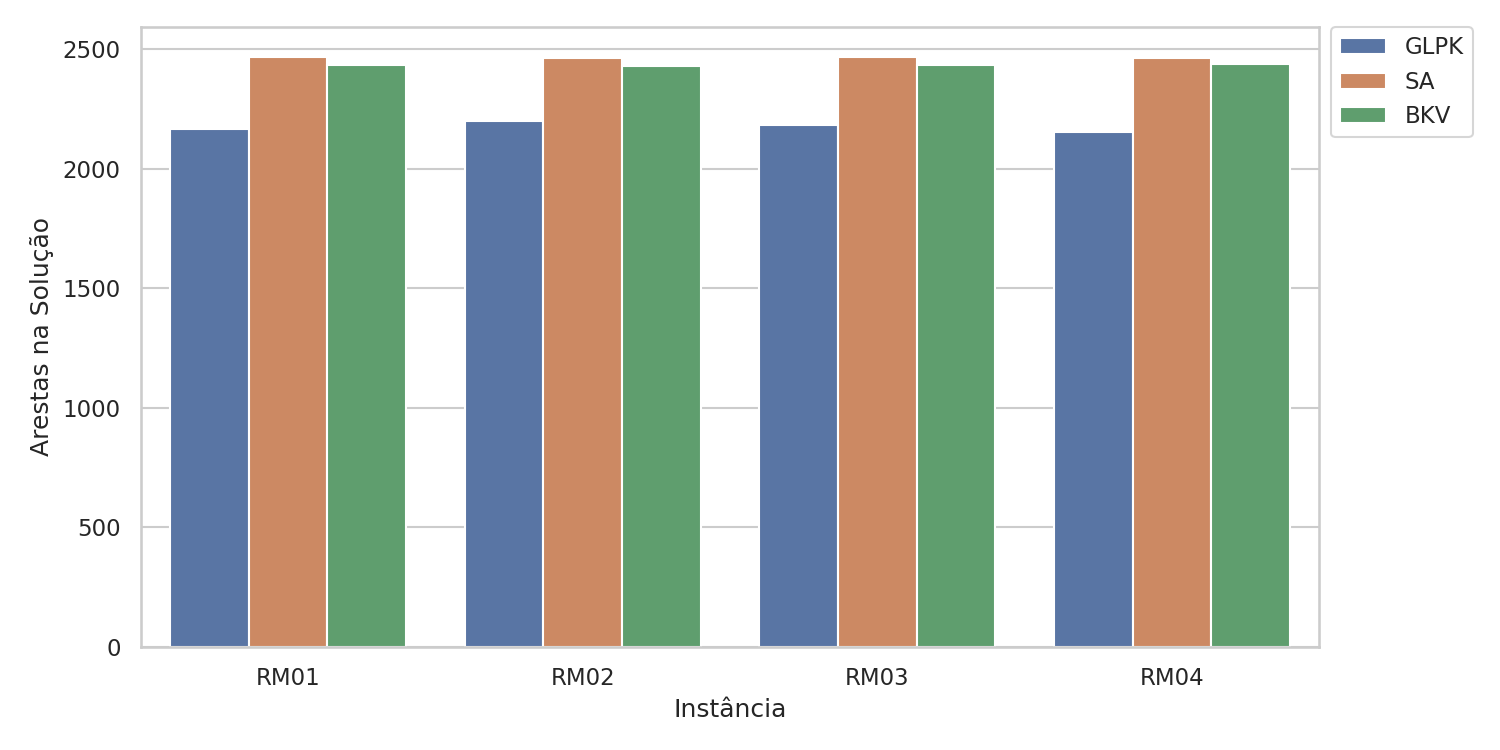
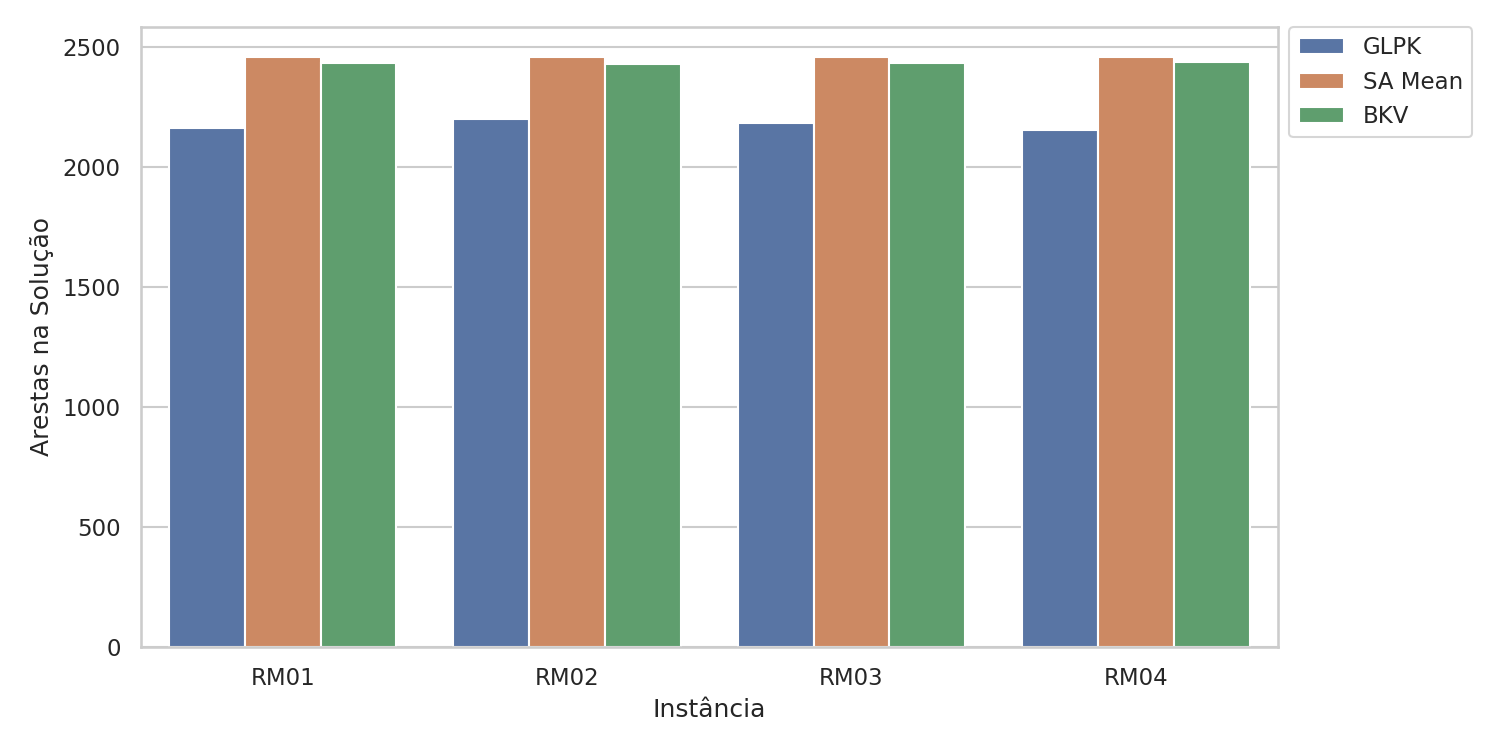
Considerando novos resultados com a média e desvio

diff --git a/averages.py b/averages.py
@@ -1,0 +1,5 @@
+#%%
+import pandas as pd
+
+dados: pd.DataFrame = pd.read_csv("results/SA_only.csv")
+print(dados.describe().iloc[1:3, :].T)
